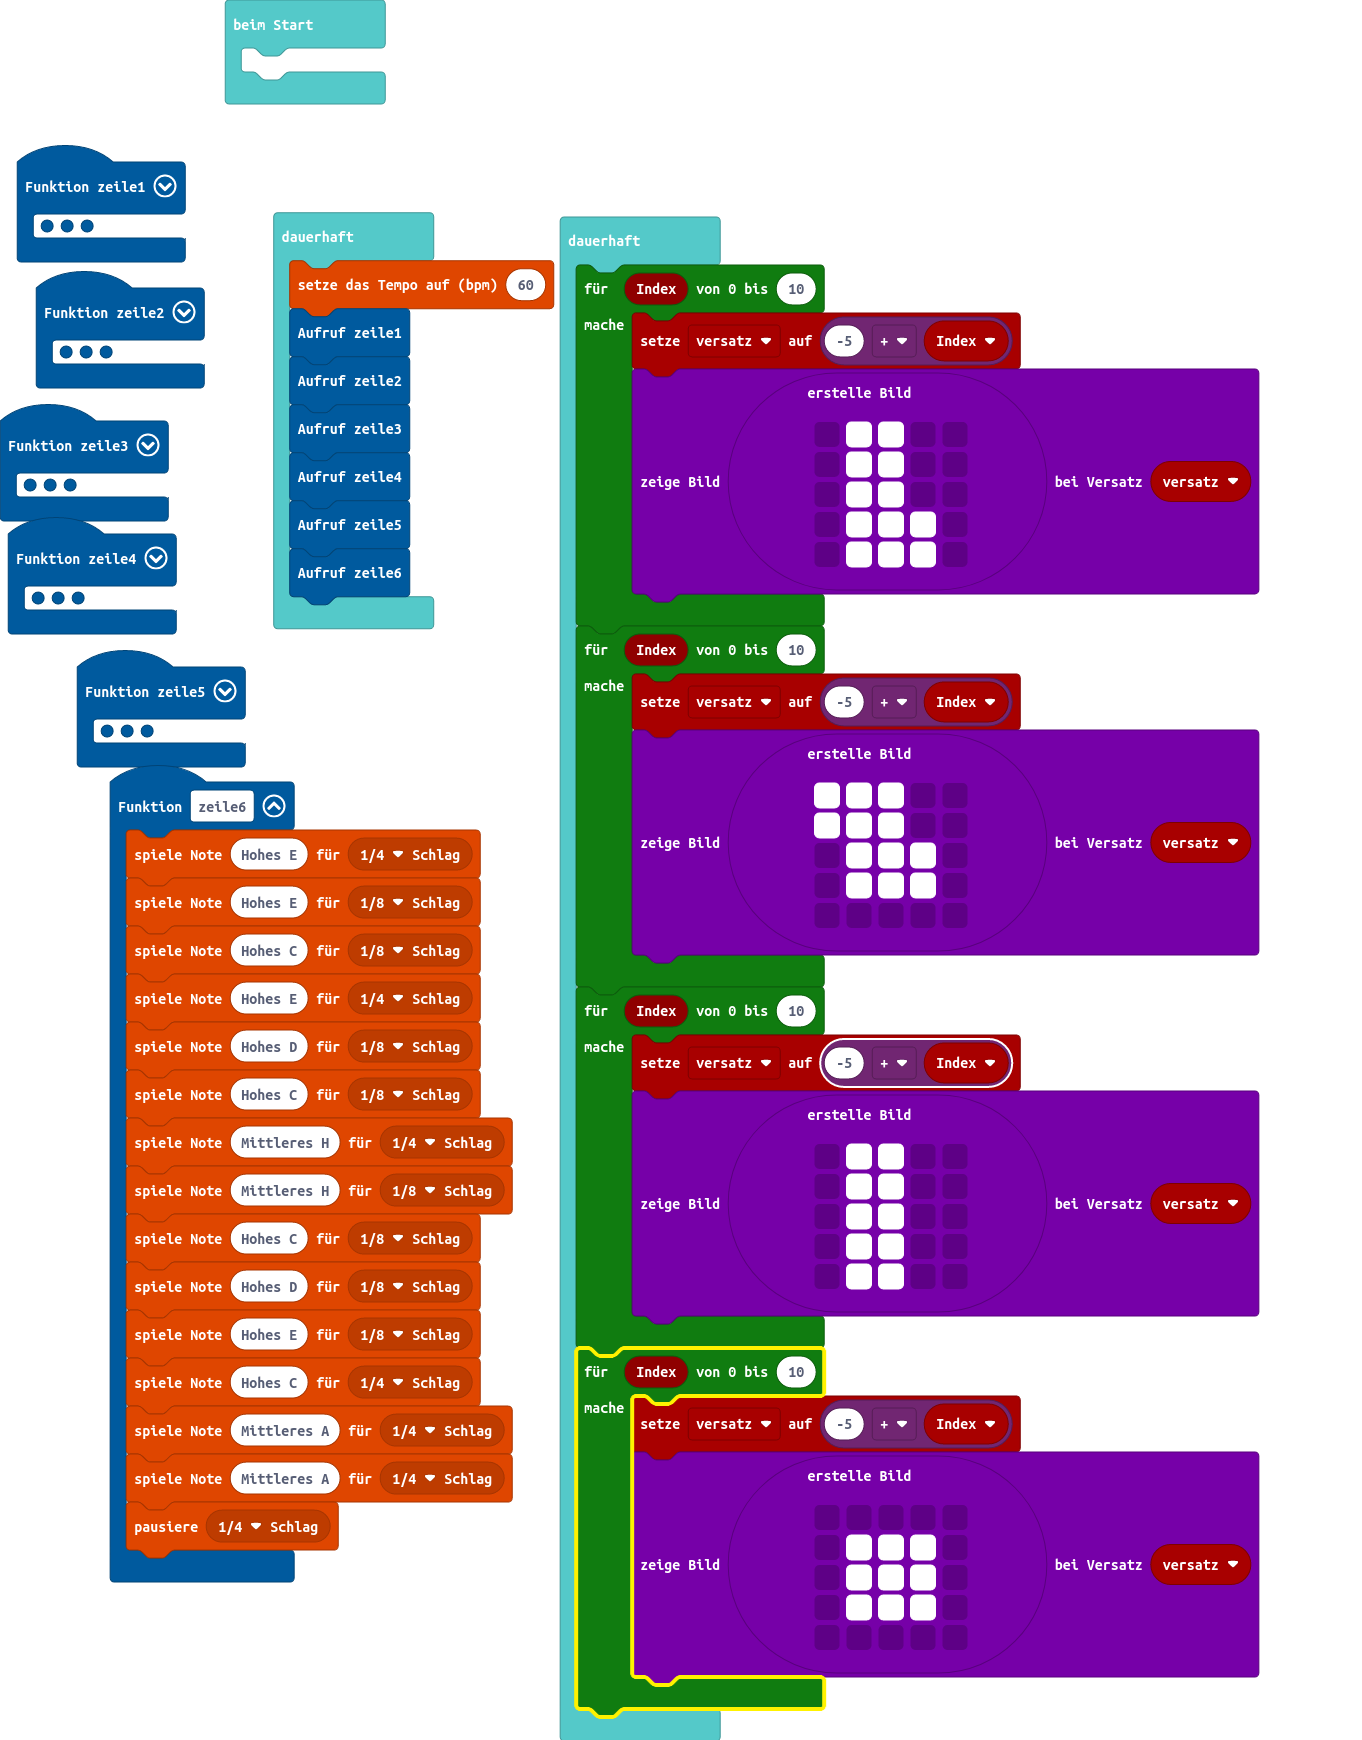
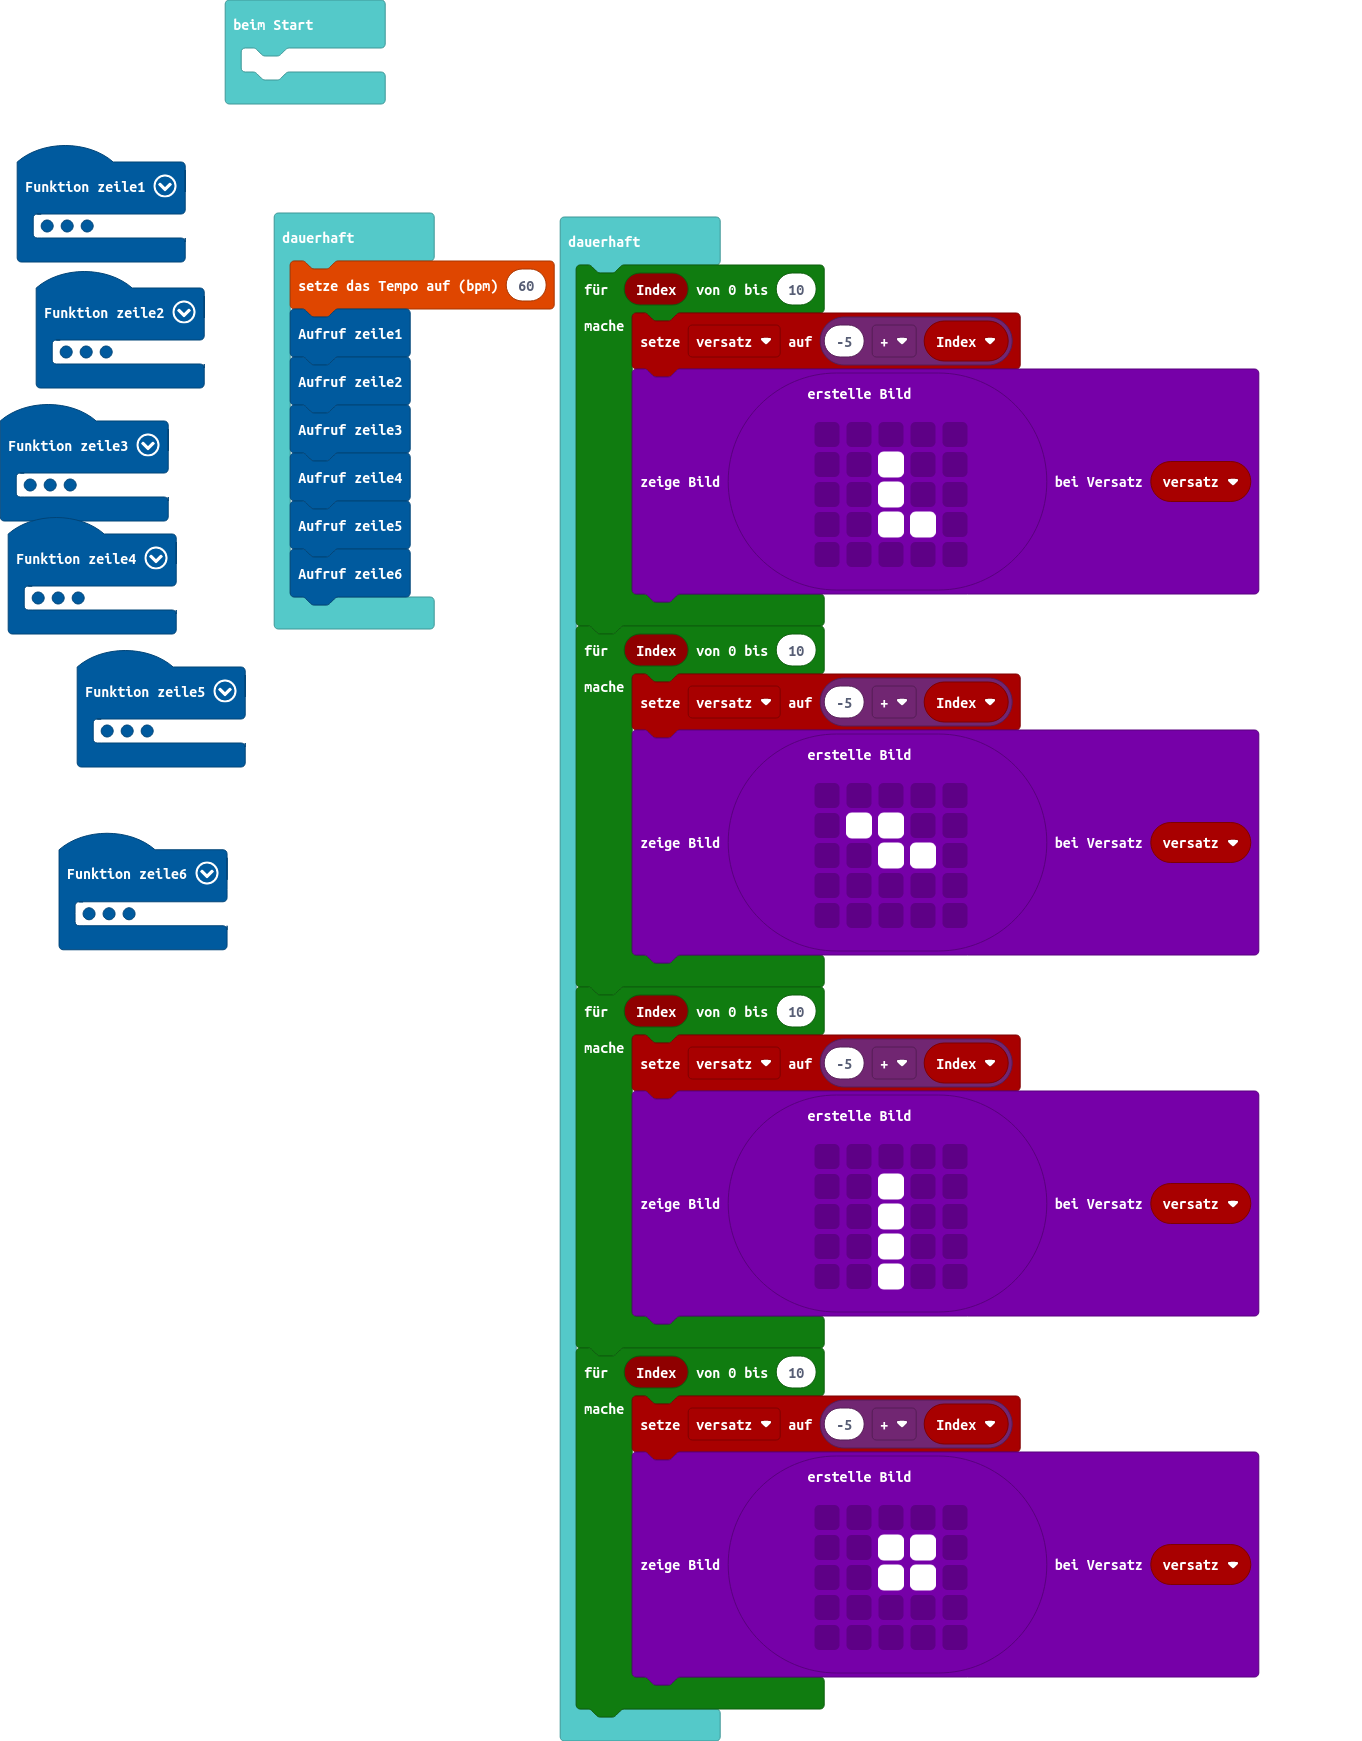
jule kennt ttrs

diff --git a/main.ts b/main.ts
@@ -125,40 +125,40 @@ basic.forever(function () {
     for (let Index = 0; Index <= 10; Index++) {
         versatz = -5 + Index
         images.createImage(`
-            . # # . .
-            . # # . .
-            . # # . .
-            . # # # .
-            . # # # .
-            `).showImage(versatz)
-    }
-    for (let Index = 0; Index <= 10; Index++) {
-        versatz = -5 + Index
-        images.createImage(`
-            # # # . .
-            # # # . .
-            . # # # .
-            . # # # .
+            . . . . .
+            . . # . .
+            . . # . .
+            . . # # .
             . . . . .
             `).showImage(versatz)
     }
     for (let Index = 0; Index <= 10; Index++) {
         versatz = -5 + Index
         images.createImage(`
+            . . . . .
             . # # . .
-            . # # . .
-            . # # . .
-            . # # . .
-            . # # . .
+            . . # # .
+            . . . . .
+            . . . . .
             `).showImage(versatz)
     }
     for (let Index = 0; Index <= 10; Index++) {
         versatz = -5 + Index
         images.createImage(`
             . . . . .
-            . # # # .
-            . # # # .
-            . # # # .
+            . . # . .
+            . . # . .
+            . . # . .
+            . . # . .
+            `).showImage(versatz)
+    }
+    for (let Index = 0; Index <= 10; Index++) {
+        versatz = -5 + Index
+        images.createImage(`
+            . . . . .
+            . . # # .
+            . . # # .
+            . . . . .
             . . . . .
             `).showImage(versatz)
     }
